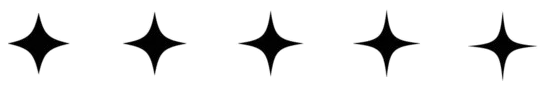
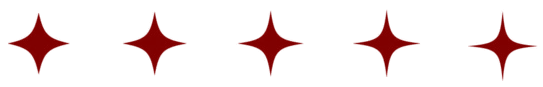
Boletin 1 - Ejercicio 3
Se optimizo la asignacion de imagenes y nombres en los correspondientes labels y pictureboxs mediante el uso de arrays y bucles. Nueva funcion que permite calcular los carats que se sumaran o restaran al hacer cada tirada. Nueva funcion que calcula el multiplicador en base a los 5 estrellas que hayan salido y se aplicaran a la hora de sumar los carats en las tiradas.

diff --git a/Boletin1/Boletin1/Ejercicio3/Form1.Designer.cs b/Boletin1/Boletin1/Ejercicio3/Form1.Designer.cs
@@ -46,6 +46,7 @@
             this.lblEquipo3 = new System.Windows.Forms.Label();
             this.lblEquipo2 = new System.Windows.Forms.Label();
             this.lblEquipo1 = new System.Windows.Forms.Label();
+            this.lblWarning = new System.Windows.Forms.Label();
             ((System.ComponentModel.ISupportInitialize)(this.pcbEstrellas2)).BeginInit();
             ((System.ComponentModel.ISupportInitialize)(this.pcbEstrellas1)).BeginInit();
             ((System.ComponentModel.ISupportInitialize)(this.pcbCaballo3)).BeginInit();
@@ -59,7 +60,7 @@
             // 
             this.lblTitulo1.AutoSize = true;
             this.lblTitulo1.Font = new System.Drawing.Font("Microsoft YaHei UI", 36F, System.Drawing.FontStyle.Bold, System.Drawing.GraphicsUnit.Point, ((byte)(0)));
-            this.lblTitulo1.Location = new System.Drawing.Point(684, 35);
+            this.lblTitulo1.Location = new System.Drawing.Point(667, 35);
             this.lblTitulo1.Name = "lblTitulo1";
             this.lblTitulo1.Size = new System.Drawing.Size(207, 64);
             this.lblTitulo1.TabIndex = 0;
@@ -70,7 +71,7 @@
             this.lblTitulo2.AutoSize = true;
             this.lblTitulo2.Font = new System.Drawing.Font("Microsoft YaHei UI", 36F, System.Drawing.FontStyle.Bold, System.Drawing.GraphicsUnit.Point, ((byte)(0)));
             this.lblTitulo2.ForeColor = System.Drawing.Color.Indigo;
-            this.lblTitulo2.Location = new System.Drawing.Point(305, 35);
+            this.lblTitulo2.Location = new System.Drawing.Point(288, 35);
             this.lblTitulo2.Name = "lblTitulo2";
             this.lblTitulo2.Size = new System.Drawing.Size(391, 64);
             this.lblTitulo2.TabIndex = 1;
@@ -80,16 +81,16 @@
             // 
             this.lblCarats.AutoSize = true;
             this.lblCarats.Font = new System.Drawing.Font("Times New Roman", 27.75F, System.Drawing.FontStyle.Bold, System.Drawing.GraphicsUnit.Point, ((byte)(0)));
-            this.lblCarats.Location = new System.Drawing.Point(1037, 52);
+            this.lblCarats.Location = new System.Drawing.Point(1037, 47);
             this.lblCarats.Name = "lblCarats";
-            this.lblCarats.Size = new System.Drawing.Size(103, 42);
+            this.lblCarats.Size = new System.Drawing.Size(37, 42);
             this.lblCarats.TabIndex = 3;
-            this.lblCarats.Text = "1.000";
+            this.lblCarats.Text = "0";
             // 
             // btnTirar
             // 
             this.btnTirar.Font = new System.Drawing.Font("Microsoft YaHei UI", 14.25F, System.Drawing.FontStyle.Bold, System.Drawing.GraphicsUnit.Point, ((byte)(0)));
-            this.btnTirar.Location = new System.Drawing.Point(521, 696);
+            this.btnTirar.Location = new System.Drawing.Point(499, 663);
             this.btnTirar.Name = "btnTirar";
             this.btnTirar.Size = new System.Drawing.Size(192, 49);
             this.btnTirar.TabIndex = 4;
@@ -99,7 +100,7 @@
             // lblNombre1
             // 
             this.lblNombre1.Font = new System.Drawing.Font("Microsoft YaHei UI", 16F, System.Drawing.FontStyle.Bold);
-            this.lblNombre1.Location = new System.Drawing.Point(176, 555);
+            this.lblNombre1.Location = new System.Drawing.Point(155, 522);
             this.lblNombre1.Name = "lblNombre1";
             this.lblNombre1.Size = new System.Drawing.Size(242, 30);
             this.lblNombre1.TabIndex = 8;
@@ -109,7 +110,7 @@
             // lblNombre2
             // 
             this.lblNombre2.Font = new System.Drawing.Font("Microsoft YaHei UI", 16F, System.Drawing.FontStyle.Bold);
-            this.lblNombre2.Location = new System.Drawing.Point(486, 555);
+            this.lblNombre2.Location = new System.Drawing.Point(465, 522);
             this.lblNombre2.Name = "lblNombre2";
             this.lblNombre2.Size = new System.Drawing.Size(242, 30);
             this.lblNombre2.TabIndex = 9;
@@ -119,7 +120,7 @@
             // lblNombre3
             // 
             this.lblNombre3.Font = new System.Drawing.Font("Microsoft YaHei UI", 16F, System.Drawing.FontStyle.Bold);
-            this.lblNombre3.Location = new System.Drawing.Point(794, 555);
+            this.lblNombre3.Location = new System.Drawing.Point(773, 522);
             this.lblNombre3.Name = "lblNombre3";
             this.lblNombre3.Size = new System.Drawing.Size(242, 30);
             this.lblNombre3.TabIndex = 10;
@@ -129,7 +130,7 @@
             // pcbEstrellas2
             // 
             this.pcbEstrellas2.Image = global::Ejercicio3.Properties.Resources.Cuatro_estrellas;
-            this.pcbEstrellas2.Location = new System.Drawing.Point(491, 595);
+            this.pcbEstrellas2.Location = new System.Drawing.Point(470, 562);
             this.pcbEstrellas2.Name = "pcbEstrellas2";
             this.pcbEstrellas2.Size = new System.Drawing.Size(237, 32);
             this.pcbEstrellas2.SizeMode = System.Windows.Forms.PictureBoxSizeMode.StretchImage;
@@ -138,8 +139,8 @@
             // 
             // pcbEstrellas1
             // 
-            this.pcbEstrellas1.Image = global::Ejercicio3.Properties.Resources._5_estrellas;
-            this.pcbEstrellas1.Location = new System.Drawing.Point(181, 595);
+            this.pcbEstrellas1.Image = ((System.Drawing.Image)(resources.GetObject("pcbEstrellas1.Image")));
+            this.pcbEstrellas1.Location = new System.Drawing.Point(160, 562);
             this.pcbEstrellas1.Name = "pcbEstrellas1";
             this.pcbEstrellas1.Size = new System.Drawing.Size(237, 32);
             this.pcbEstrellas1.SizeMode = System.Windows.Forms.PictureBoxSizeMode.StretchImage;
@@ -148,7 +149,7 @@
             // 
             // pcbCaballo3
             // 
-            this.pcbCaballo3.Location = new System.Drawing.Point(798, 177);
+            this.pcbCaballo3.Location = new System.Drawing.Point(777, 144);
             this.pcbCaballo3.Name = "pcbCaballo3";
             this.pcbCaballo3.Size = new System.Drawing.Size(238, 367);
             this.pcbCaballo3.SizeMode = System.Windows.Forms.PictureBoxSizeMode.StretchImage;
@@ -157,7 +158,7 @@
             // 
             // pcbCaballo2
             // 
-            this.pcbCaballo2.Location = new System.Drawing.Point(490, 177);
+            this.pcbCaballo2.Location = new System.Drawing.Point(469, 144);
             this.pcbCaballo2.Name = "pcbCaballo2";
             this.pcbCaballo2.Size = new System.Drawing.Size(238, 367);
             this.pcbCaballo2.SizeMode = System.Windows.Forms.PictureBoxSizeMode.StretchImage;
@@ -166,7 +167,7 @@
             // 
             // pcbCaballo1
             // 
-            this.pcbCaballo1.Location = new System.Drawing.Point(180, 177);
+            this.pcbCaballo1.Location = new System.Drawing.Point(159, 144);
             this.pcbCaballo1.Name = "pcbCaballo1";
             this.pcbCaballo1.Size = new System.Drawing.Size(238, 367);
             this.pcbCaballo1.SizeMode = System.Windows.Forms.PictureBoxSizeMode.StretchImage;
@@ -176,7 +177,7 @@
             // pcbCarats
             // 
             this.pcbCarats.Image = global::Ejercicio3.Properties.Resources.carats;
-            this.pcbCarats.Location = new System.Drawing.Point(966, 37);
+            this.pcbCarats.Location = new System.Drawing.Point(966, 32);
             this.pcbCarats.Name = "pcbCarats";
             this.pcbCarats.Size = new System.Drawing.Size(70, 70);
             this.pcbCarats.SizeMode = System.Windows.Forms.PictureBoxSizeMode.StretchImage;
@@ -186,7 +187,7 @@
             // pcbEstrellas3
             // 
             this.pcbEstrellas3.Image = global::Ejercicio3.Properties.Resources.Cuatro_estrellas;
-            this.pcbEstrellas3.Location = new System.Drawing.Point(799, 595);
+            this.pcbEstrellas3.Location = new System.Drawing.Point(778, 562);
             this.pcbEstrellas3.Name = "pcbEstrellas3";
             this.pcbEstrellas3.Size = new System.Drawing.Size(237, 32);
             this.pcbEstrellas3.SizeMode = System.Windows.Forms.PictureBoxSizeMode.StretchImage;
@@ -196,7 +197,7 @@
             // lblEquipo3
             // 
             this.lblEquipo3.Font = new System.Drawing.Font("Microsoft YaHei UI", 16F, System.Drawing.FontStyle.Bold);
-            this.lblEquipo3.Location = new System.Drawing.Point(796, 640);
+            this.lblEquipo3.Location = new System.Drawing.Point(775, 607);
             this.lblEquipo3.Name = "lblEquipo3";
             this.lblEquipo3.Size = new System.Drawing.Size(242, 30);
             this.lblEquipo3.TabIndex = 16;
@@ -206,7 +207,7 @@
             // lblEquipo2
             // 
             this.lblEquipo2.Font = new System.Drawing.Font("Microsoft YaHei UI", 16F, System.Drawing.FontStyle.Bold);
-            this.lblEquipo2.Location = new System.Drawing.Point(488, 640);
+            this.lblEquipo2.Location = new System.Drawing.Point(467, 607);
             this.lblEquipo2.Name = "lblEquipo2";
             this.lblEquipo2.Size = new System.Drawing.Size(242, 30);
             this.lblEquipo2.TabIndex = 15;
@@ -216,12 +217,22 @@
             // lblEquipo1
             // 
             this.lblEquipo1.Font = new System.Drawing.Font("Microsoft YaHei UI", 16F, System.Drawing.FontStyle.Bold);
-            this.lblEquipo1.Location = new System.Drawing.Point(178, 640);
+            this.lblEquipo1.Location = new System.Drawing.Point(157, 607);
             this.lblEquipo1.Name = "lblEquipo1";
             this.lblEquipo1.Size = new System.Drawing.Size(242, 30);
             this.lblEquipo1.TabIndex = 14;
             this.lblEquipo1.Text = "Matikanetannhauser";
             this.lblEquipo1.TextAlign = System.Drawing.ContentAlignment.MiddleCenter;
+            // 
+            // lblWarning
+            // 
+            this.lblWarning.Font = new System.Drawing.Font("Microsoft YaHei UI", 16F, System.Drawing.FontStyle.Bold);
+            this.lblWarning.ForeColor = System.Drawing.SystemColors.ActiveCaptionText;
+            this.lblWarning.Location = new System.Drawing.Point(2, 722);
+            this.lblWarning.Name = "lblWarning";
+            this.lblWarning.Size = new System.Drawing.Size(1181, 30);
+            this.lblWarning.TabIndex = 17;
+            this.lblWarning.TextAlign = System.Drawing.ContentAlignment.MiddleCenter;
             // 
             // Form1
             // 
@@ -229,6 +240,7 @@
             this.AutoScaleMode = System.Windows.Forms.AutoScaleMode.Font;
             this.BackColor = System.Drawing.Color.RosyBrown;
             this.ClientSize = new System.Drawing.Size(1184, 761);
+            this.Controls.Add(this.lblWarning);
             this.Controls.Add(this.lblEquipo3);
             this.Controls.Add(this.lblEquipo2);
             this.Controls.Add(this.lblEquipo1);
@@ -282,6 +294,7 @@
         private System.Windows.Forms.Label lblEquipo3;
         private System.Windows.Forms.Label lblEquipo2;
         private System.Windows.Forms.Label lblEquipo1;
+        private System.Windows.Forms.Label lblWarning;
     }
 }
 

diff --git a/Boletin1/Boletin1/Ejercicio3/Form1.cs b/Boletin1/Boletin1/Ejercicio3/Form1.cs
@@ -17,14 +17,33 @@ namespace Ejercicio3
 {
     public partial class Form1 : Form
     {
+
+        private int carats;
         private List<Uma> datos;
         private FileInfo datosCaballos;
         private string ruta;
+
+        private Uma[] umas;
+        private PictureBox[] imagenes;
+        private PictureBox[] estrellas;
+        private Label[] lblNombres;
+        private Label[] lblEquipos;
 
         public Form1()
         {
 
             InitializeComponent();
+
+            carats = 1000;
+            lblCarats.Text = carats.ToString("N0"); //N0, la N significa Number, es decir formatear como numero usando de separador los miles y el 0 es de la cantidad de decimales.
+
+            imagenes = new PictureBox[] { pcbCaballo1, pcbCaballo2, pcbCaballo3 };
+
+            estrellas = new PictureBox[] { pcbEstrellas1, pcbEstrellas2, pcbEstrellas3 };
+
+            lblNombres = new Label[] { lblNombre1, lblNombre2, lblNombre3 };
+
+            lblEquipos = new Label[] { lblEquipo1, lblEquipo2, lblEquipo3 };
 
             //El AppContext.BaseDirectory coge la ruta al .exe
             // Luego con el Path.Combine combinamos la ruta del .exe y subimos 2 carpetas para llegar al jsom
@@ -49,36 +68,37 @@ namespace Ejercicio3
 
         private void btnTirar_Click(object sender, EventArgs e)
         {
-            (int, int, int) indicesCaballos = generarTupla();
-
-            Uma uma1 = datos[indicesCaballos.Item1];
-            Uma uma2 = datos[indicesCaballos.Item2];
-            Uma uma3 = datos[indicesCaballos.Item3];
-
-            pcbCaballo1.Image = (Image)Properties.Resources.ResourceManager.GetObject(uma1.RutaImagen);
-            pcbCaballo2.Image = (Image)Properties.Resources.ResourceManager.GetObject(uma2.RutaImagen);
-            pcbCaballo3.Image = (Image)Properties.Resources.ResourceManager.GetObject(uma3.RutaImagen);
-
-            lblNombre1.Text = uma1.Nombre;
-            lblNombre2.Text = uma2.Nombre;
-            lblNombre3.Text = uma3.Nombre;
-
-            lblEquipo1.Text = uma1.Equipo;
-            lblEquipo2.Text = uma2.Equipo;
-            lblEquipo3.Text = uma3.Equipo;
-
-            Image cuatro_estrellas = (Image)Properties.Resources.ResourceManager.GetObject("Cuatro_estrellas");
-            Image cinco_estrellas = (Image)Properties.Resources.ResourceManager.GetObject("5_estrellas");
-
-            if (uma1.Rareza == 4)
+            if (carats >= 150)
             {
-                pcbEstrellas1.Image = cuatro_estrellas;
-                pcbCaballo1.BackColor = Color.
-            }
+                actualizarCarats(false, 150);
 
-            pcbEstrellas1.Image = uma1.Rareza == 4 ? pcbEstrellas1.Image = cuatro_estrellas : cinco_estrellas;
-            pcbEstrellas2.Image = uma2.Rareza == 4 ? pcbEstrellas2.Image = cuatro_estrellas : cinco_estrellas;
-            pcbEstrellas3.Image = uma3.Rareza == 4 ? pcbEstrellas3.Image = cuatro_estrellas : cinco_estrellas;
+                (int, int, int) indicesCaballos = generarTupla();
+
+                umas = new Uma[] { datos[indicesCaballos.Item1], datos[indicesCaballos.Item2], datos[indicesCaballos.Item3] };
+
+                Image cuatro_estrellas = (Image)Properties.Resources.ResourceManager.GetObject("Cuatro_estrellas");
+                Image cinco_estrellas = (Image)Properties.Resources.ResourceManager.GetObject("5_estrellas");
+
+                //ARGB = Alpha (opacidad),rgb.
+
+                Color colorCuatroEstrellas = Color.FromArgb(153, 184, 117, 208); ;
+                Color colorCincoEstrellas = Color.FromArgb(153, 218, 165, 32);
+
+                for (int i = 0; i < umas.Length; i++)
+                {
+                    imagenes[i].Image = (Image)Properties.Resources.ResourceManager.GetObject(umas[i].RutaImagen);
+                    imagenes[i].BackColor = umas[i].Rareza == 4 ? colorCuatroEstrellas : colorCincoEstrellas;
+                    lblNombres[i].Text = umas[i].Nombre;
+                    lblEquipos[i].Text = umas[i].Equipo;
+                    estrellas[i].Image = umas[i].Rareza == 4 ? cuatro_estrellas : cinco_estrellas;
+                }
+
+                calcularPremio();
+            }
+            else
+            {
+                lblWarning.Text = "No tienes suficientes carats.";
+            }
         }
 
         private (int, int, int) generarTupla()
@@ -90,6 +110,61 @@ namespace Ejercicio3
             int n3 = generador.Next(0, datos.Count());
 
             return (n1, n2, n3);
+        }
+
+        private void actualizarCarats(bool flag, int carats)
+        {
+            this.carats = flag ? this.carats + carats : this.carats - carats;
+
+            lblCarats.Text = this.carats.ToString("N0");
+        }
+
+        private void calcularPremio()
+        {
+            //POR NOMBRE
+
+            int carats = 0;
+
+            if (umas[0].Nombre == umas[1].Nombre && umas[0].Nombre == umas[2].Nombre)
+            {
+                carats += 800;
+            }
+            if (umas[0].Nombre == umas[1].Nombre || umas[0].Nombre == umas[2].Nombre || umas[1].Nombre == umas[2].Nombre)
+            {
+                carats += 300;
+            }
+
+            //POR EQUIPO
+
+            if (umas[0].Equipo == umas[1].Equipo && umas[0].Equipo == umas[2].Equipo)
+            {
+                carats += 300;
+            }
+            if (umas[0].Equipo == umas[1].Equipo || umas[0].Equipo == umas[2].Equipo || umas[1].Equipo == umas[2].Equipo)
+            {
+                carats += 100;
+            }
+
+            double multiplicador = calcularMultiplicador();
+
+            carats = (int)Math.Round(carats * multiplicador);
+
+            actualizarCarats(true, carats);
+        }
+
+        private double calcularMultiplicador()
+        {
+            double multiplicador = 1.00;
+
+            for (int i = 0; i < umas.Length; i++)
+            {
+                if (umas[i].Rareza == 5)
+                {
+                    multiplicador += 0.33;
+                }
+            }
+
+            return multiplicador;
         }
     }
 }
